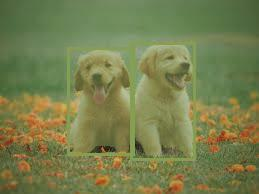
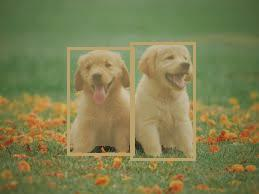
stuff

Changed region(s): [[0.2471, 0.2165, 0.7722, 0.8351]]

diff --git a/sam2test.py b/sam2test.py
@@ -5,78 +5,107 @@ from typing import List, Dict, Any, Union
 import torch
 import numpy as np
 from PIL import Image, ImageDraw, ImageFont
-from transformers import pipeline, Sam2Model, Sam2Processor
+from transformers import (
+    AutoProcessor,
+    AutoModelForZeroShotObjectDetection,
+    Sam2Model,
+    Sam2Processor,
+    infer_device,
+)
 from transformers.image_utils import load_image
 
 
-# ---------- Utility: random but stable color per class ----------
+# ---------------- Utility: stable label colors ----------------
 def color_for_label(label: str):
-    random.seed(hash(label) % (2 ** 16))
+    random.seed(hash(label) % (2**16))
     return (
-        random.randint(80, 255),
-        random.randint(80, 255),
-        random.randint(80, 255),
+        random.randint(60, 255),
+        random.randint(60, 255),
+        random.randint(60, 255),
     )
 
 
-# ---------- Main pipeline ----------
-class ZeroShotDetSam2Visualizer:
+# -------------------- Main Pipeline ---------------------------
+class GroundingDinoSam2Visualizer:
     def __init__(
         self,
-        det_checkpoint="google/owlv2-base-patch16-ensemble",
-        sam_checkpoint="facebook/sam2.1-hiera-small",
+        det_checkpoint="IDEA-Research/grounding-dino-2.0-large",
+        sam_checkpoint="facebook/sam2.1-hiera-small-image",
         device="auto"
     ):
-        if device == "auto":
-            dev = torch.device("cuda" if torch.cuda.is_available() else "cpu")
-        else:
-            dev = torch.device(device)
+        # resolve device
+        device = infer_device() if device == "auto" else torch.device(device)
+        self.device = device
 
-        self.device = dev
-        det_device_index = dev.index if dev.type == "cuda" else -1
+        # -------- Grounding DINO --------
+        self.dino_processor = AutoProcessor.from_pretrained(det_checkpoint)
+        self.dino_model = AutoModelForZeroShotObjectDetection.from_pretrained(
+            det_checkpoint
+        ).to(device)
+        self.dino_model.eval()
 
-        # Zero-shot detector
-        self.detector = pipeline(
-            "zero-shot-object-detection",
-            model=det_checkpoint,
-            device=det_device_index,
-        )
-
-        # SAM2
-        self.sam_model = Sam2Model.from_pretrained(sam_checkpoint).to(dev)
-        self.sam_model.eval()
+        # -------- SAM2 --------
         self.sam_processor = Sam2Processor.from_pretrained(sam_checkpoint)
+        self.sam_model = Sam2Model.from_pretrained(sam_checkpoint).to(device)
+        self.sam_model.eval()
 
-    def run(self, image_path: str, classes: List[str], score_threshold=0.35):
+    # -----------------------------------------------------------
+    def run(self, image_path: str, classes: List[str], box_threshold=0.3, text_threshold=0.25):
+        """
+        classes: list of target labels e.g. ["person", "dog"]
+        """
         pil_image = load_image(image_path).convert("RGB")
         width, height = pil_image.size
 
-        # --- 1. Zero-shot detection ---
-        det_out = self.detector(
-            pil_image,
-            candidate_labels=classes,
-            threshold=score_threshold,
-        )
+        # Prepare text prompt: comma-separated
+        # text_prompt = ", ".join(classes)
+        text_prompt = ""
+        for cl in classes:
+            text_prompt += cl
+            text_prompt += ". "
 
-        if not det_out:
+        text_prompt = text_prompt[:-1]
+        print(text_prompt)
+
+
+        # --------- 1) Grounding DINO inference ---------
+        inputs = self.dino_processor(
+            images=pil_image,
+            text=text_prompt,
+            return_tensors="pt"
+        ).to(self.device)
+
+        with torch.inference_mode():
+            outputs = self.dino_model(**inputs)
+
+        # Post-process to get boxes
+        results = self.dino_processor.post_process_grounded_object_detection(
+            outputs,
+            inputs.input_ids,
+            threshold=box_threshold,
+            text_threshold=text_threshold,
+            target_sizes=[pil_image.size[::-1]],  # (height, width)
+        )[0]
+
+        print(results)
+        boxes = results["boxes"]       # shape: (N,4) [xmin,ymin,xmax,ymax]
+        scores = results["scores"]     # shape: (N)
+        labels = results["labels"]     # shape: (N) textual labels
+
+        if len(boxes) == 0:
             print("No detections found.")
             return pil_image
 
-        # Format boxes for SAM2
-        input_boxes = [[
-            [
-                int(p["box"]["xmin"]),
-                int(p["box"]["ymin"]),
-                int(p["box"]["xmax"]),
-                int(p["box"]["ymax"])
-            ]
-            for p in det_out
+        # Format boxes for SAM2 expected format: [1, N, 4]
+        sam_boxes = [[
+            [int(x) for x in box.tolist()]
+            for box in boxes
         ]]
 
-        # --- 2. SAM2 segmentation ---
+        # --------- 2) SAM2 segmentation from boxes ---------
         sam_inputs = self.sam_processor(
             images=pil_image,
-            input_boxes=input_boxes,
+            input_boxes=sam_boxes,
             return_tensors="pt"
         ).to(self.device)
 
@@ -86,60 +115,59 @@ class ZeroShotDetSam2Visualizer:
         masks = self.sam_processor.post_process_masks(
             sam_outputs.pred_masks.cpu(),
             sam_inputs["original_sizes"],
-        )[0]  # (N, H, W)
+        )[0]  # now (N, H, W)
 
         if masks.ndim == 4:
-            masks = masks[:, 0]  # enforce (N,H,W)
+            masks = masks[:, 0]  # enforce (N, H, W)
 
-        masks = masks > 0.5
+        masks = masks > 0.9
 
-        # --- 3. Render overlay ---
+        # --------- 3) Render overlay output ---------
         overlay = pil_image.copy()
-        draw = ImageDraw.Draw(overlay, "RGBA")
+        drawer = ImageDraw.Draw(overlay, "RGBA")
 
-        # Optionally load font
         try:
             font = ImageFont.truetype("arial.ttf", 18)
         except:
             font = ImageFont.load_default()
 
-        for pred, mask in zip(det_out, masks):
-            label = pred["label"]
-            score = float(pred["score"])
+        for box, score, label, mask in zip(boxes, scores, labels, masks):
             color = color_for_label(label)
 
-            # ---- Draw mask ----
-            mask_np = mask.numpy().astype("uint8") * 120  # transparency
+            # ---- mask ----
+            mask_np = mask.numpy().astype("uint8") * 140
             mask_img = Image.fromarray(mask_np, mode="L")
-            color_img = Image.new("RGBA", (width, height), color + (120,))
-            overlay.paste(color_img, (0, 0), mask_img)
+            tint = Image.new("RGBA", (width, height), color + (140,))
+            overlay.paste(tint, (0, 0), mask_img)
 
-            # ---- Draw box ----
-            box = pred["box"]
-            xmin, ymin, xmax, ymax = (
-                int(box["xmin"]), int(box["ymin"]),
-                int(box["xmax"]), int(box["ymax"])
-            )
-            draw.rectangle([xmin, ymin, xmax, ymax], outline=color, width=3)
+            # ---- bounding box ----
+            xmin, ymin, xmax, ymax = map(int, box.tolist())
+            drawer.rectangle([xmin, ymin, xmax, ymax], outline=color, width=3)
 
-            # # ---- Draw label ----
-            # caption = f"{label} {score:.2f}"
-            # tw, th = draw.textsize(caption, font=font)
-            # draw.rectangle([xmin, ymin - th, xmin + tw, ymin], fill=color + (180,))
-            # draw.text((xmin, ymin - th), caption, fill=(0, 0, 0), font=font)
+            # ---- label text ----
+            # caption = f"{label} {float(score):.2f}"
+            # tw, th = drawer.textsize(caption, font=font)
+            # drawer.rectangle([xmin, ymin - th, xmin + tw, ymin], fill=color + (210,))
+            # drawer.text((xmin, ymin - th), caption, fill=(0, 0, 0), font=font)
 
         return overlay
 
 
 # ------------------- Example Usage -------------------
 if __name__ == "__main__":
-    pipe = ZeroShotDetSam2Visualizer()
-
-    img = pipe.run(
-        image_path="input.jpg",
-        classes=["person", "dog", "cat"],
-        score_threshold=0.4
+    pipe = GroundingDinoSam2Visualizer(
+        det_checkpoint="IDEA-Research/grounding-dino-2.0-large",
+        sam_checkpoint="facebook/sam2.1-hiera-large",
+        device="cuda"
     )
 
-    img.save("output_overlay.jpg")
-    print("Saved → output_overlay.jpg")
+    out = pipe.run(
+        "../../test_image/geoportal_ortho_5cm.jpg",
+        classes=["construcsion site with buildings, road, vehicles, containers"],
+        # classes=["person", "dog", "cat", "car", "bicycle"],
+        box_threshold=0.3,
+        text_threshold=0.15
+    )
+
+    out.save("output_overlay1.jpg")
+    print("Saved → output_overlay1.jpg")
